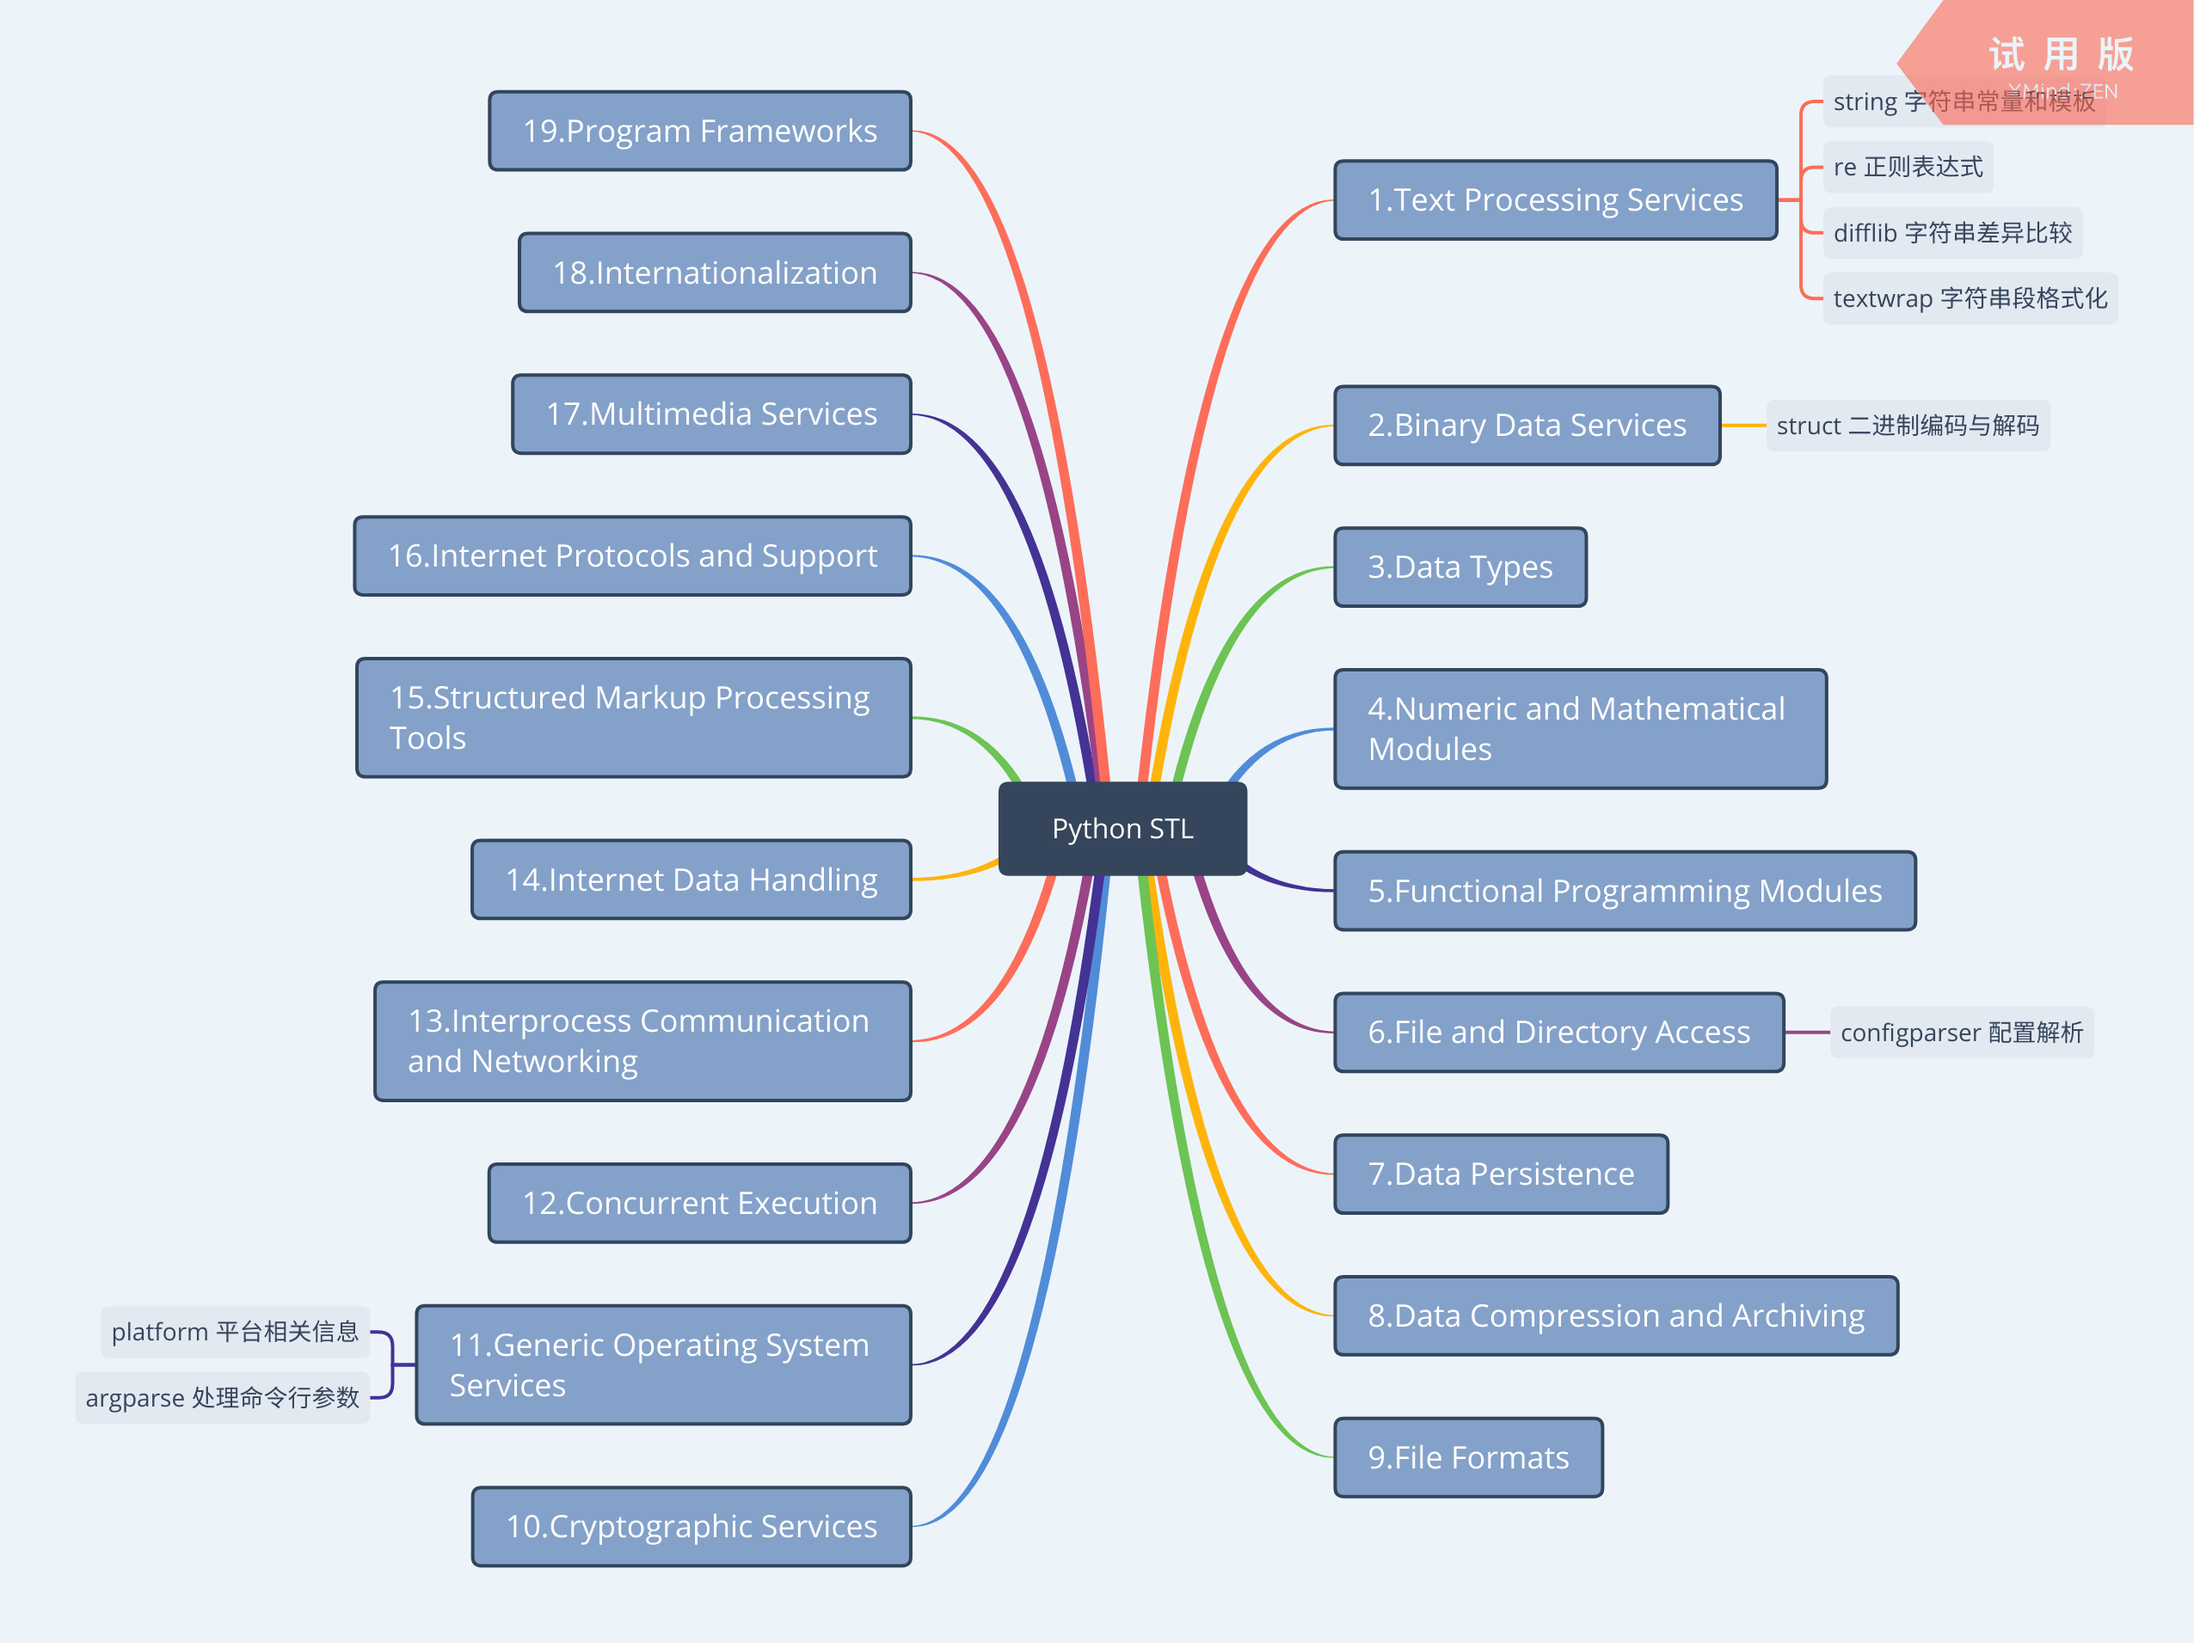
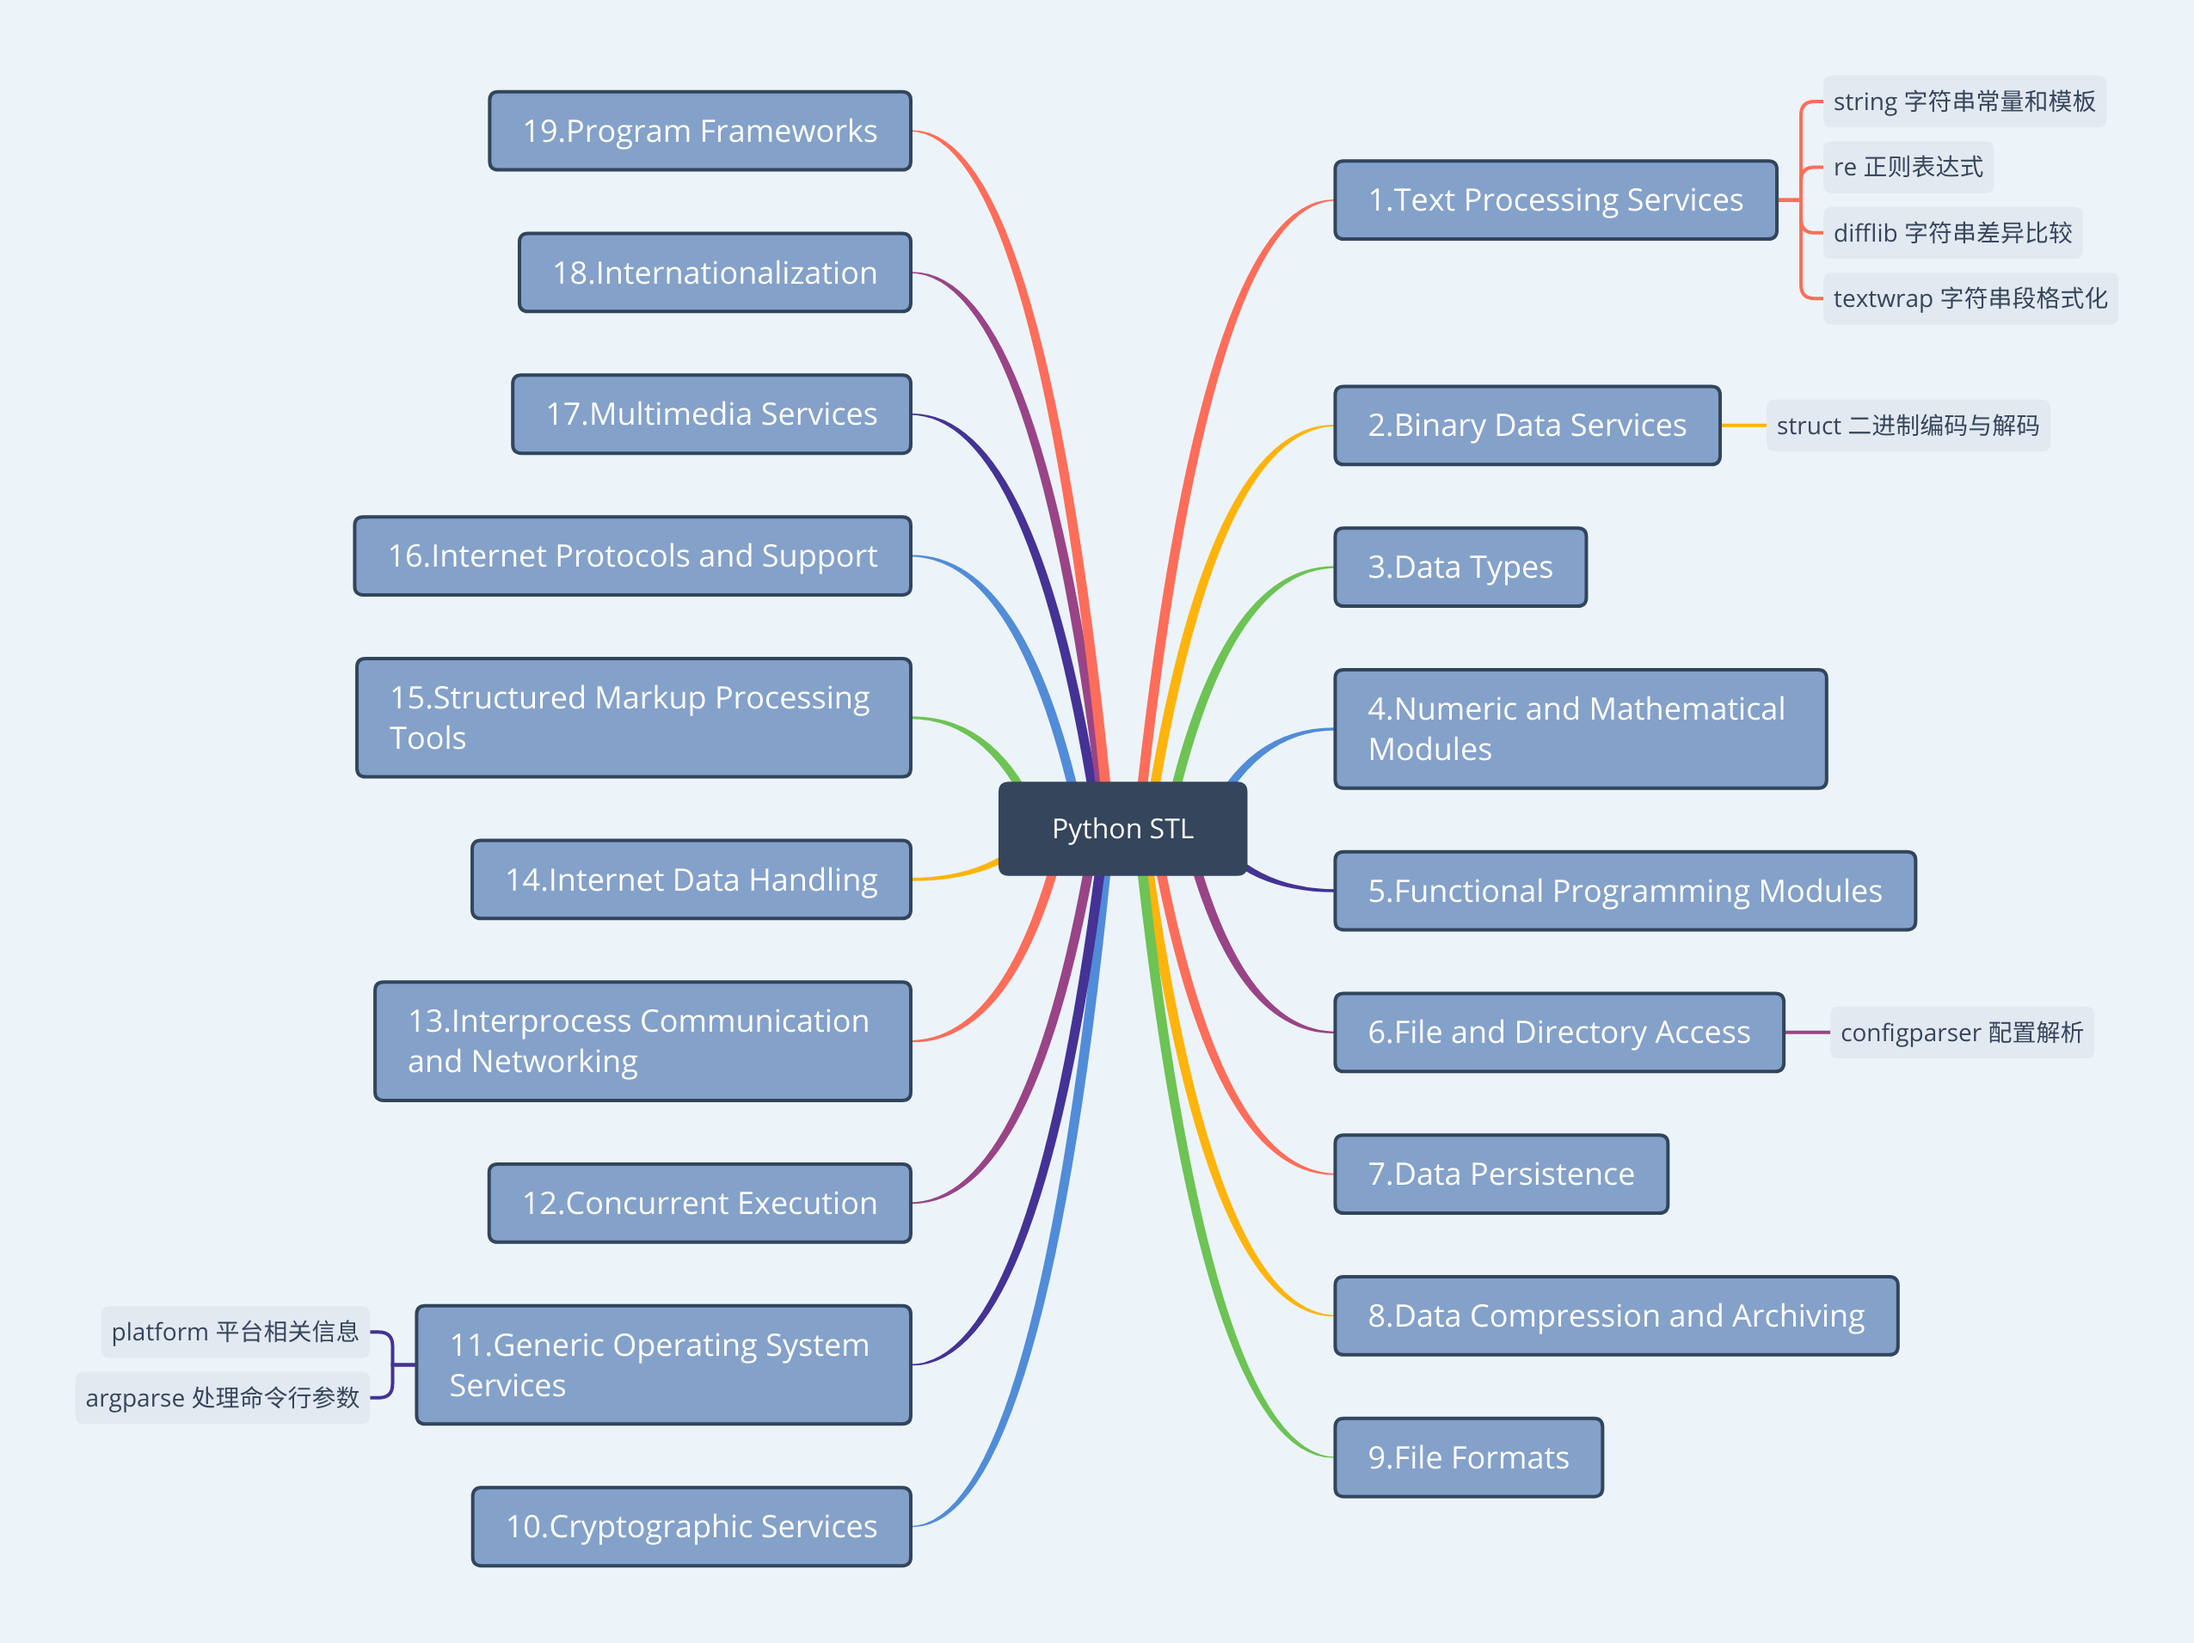
。

Changed region(s): [[0.8671, 0.0, 1.0, 0.0926]]

diff --git a/Python/STL/README.md b/Python/STL/README.md
@@ -1,3 +1,3 @@
 # STL
 
-![XMIND](/Image/Python/STL/Python STL.jpg)
+![XMIND](/Image/Python/STL/Python_STL.png)
